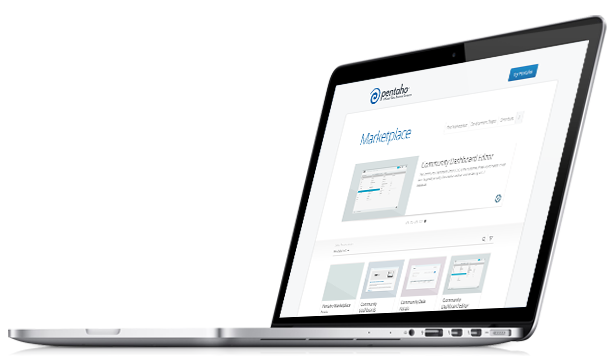
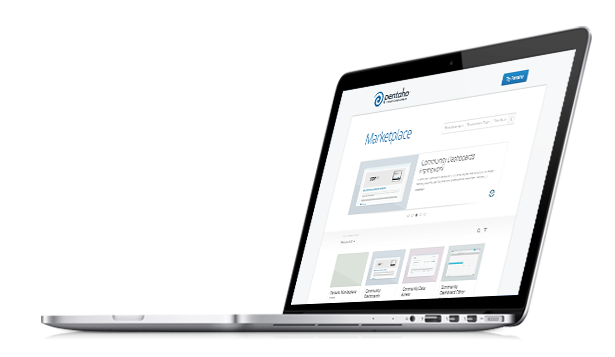
— changed global h4 f.size. — changed /app-builder top button txt to "marketplace" — fixed faulty header text alignment on /app-builder —[wip] change on hover style for marketplace/plugins cards

diff --git a/css/main.css b/css/main.css
@@ -43,6 +43,7 @@ body {
   line-height: none;
   color: #616161;
   min-width: 320px;
+  overflow-x: hidden;
 }
 
 .container small,
@@ -176,10 +177,9 @@ h3 {
 }
 
 h4{
-  font-size: 14px;
+  font-size: 16px;
   font-weight: 600;
   line-height: 27px;
-  /*margin-top: 35px;*/
 }
 
 p{
@@ -1209,6 +1209,10 @@ ol.carousel-indicators.content{
   .community-slide .right-side-slide{
     padding-bottom: 40px;
   }
+
+  .submit-item > a > div{
+    min-height: inherit !important;
+  }
 }
 
 
@@ -2045,7 +2049,7 @@ p.in-development-description {
   .submit-item > a > div {
     min-height: 235px;
     border: 1px solid #ebebeb;
-    margin-bottom: 30px;
+    margin-bottom: 24px;
     -webkit-transition: all .3s linear;
     transition: all .3s linear;
     padding-left: 10px;
@@ -2075,6 +2079,73 @@ p.in-development-description {
     margin-top: -10px;
     color: #616161;
   }
+
+  .marketPlace-card-icon{
+    width: 100px;
+    height: 100px;
+    margin-top: 35px;
+    margin-left: auto;
+    margin-right: auto;
+    position: relative;
+    background-repeat: no-repeat;
+    background-size: 400px 200px;
[1 lines of base64/hex data omitted]
+  }
+
+  .marketPlace-card-icon.dev{
+    background-position: 0 top;
+  }
+
+  .marketPlace-card-icon.submit{
+    background-position: -103px top;
+  }
+
+  .marketPlace-card-icon.join{
+    background-position: -203px top;
+  }
+
+  .marketPlace-card-icon.support{
+    background-position: -300px top;
+  }
+
+  .pluginPage .marketplaceLinks:hover{
+    background: #34913D;
+    color: #FFF;
+  }
+
+  .pluginPage .marketplaceLinks p{
+    color: #616161;
+    text-decoration: none;
+  }
+
+  .pluginPage .marketplaceLinks:hover p{
+    color: #FFF;
+  }
+
+  .pluginPage .marketplaceLinks h3,
+  .pluginPage .marketplaceLinks p
+  {
+    -webkit-transition: all 0.2s linear;
+    transition: all 0.2s linear;
+  }
+
+  .pluginPage .marketplaceLinks:hover h3{
+    color: #FFF;
+  }
+
+  .marketplaceLinks:hover .marketPlace-card-icon.dev{
+    background-position: 0 bottom;
+  }
+  .marketplaceLinks:hover .marketPlace-card-icon.submit{
+    background-position: -103px bottom;
+  }
+  .marketplaceLinks:hover .marketPlace-card-icon.join{
+    background-position: -203px bottom;
+  }
+  .marketplaceLinks:hover .marketPlace-card-icon.support{
+    background-position: -300px bottom;
+  }
+
 
   .pluginPage .grayRow {
     background: #d4d4d4;
@@ -3245,7 +3316,7 @@ a.userGroup-link {
   margin: 0;
   line-height: 16px;
   font-size: 12px;
-  padding: 3px 15px 5px;
+  padding: 5px 15px 5px;
 }
 
 .user-groups h3{

diff --git a/marketplace/plugins/index.html b/marketplace/plugins/index.html
@@ -97,44 +97,64 @@
                   </div>
                   <div class="row plugin-cards">
                     <div class="col-lg-3 col-sm-6 col-xs-12 submit-item text-center">
-                      <div class="marketplaceLinks">
-                        <div>
-                          <img src="../../img/marketplace-how-to.png" alt="">
-                          <h3>Develop plugins</h3>
-                          <p>All info to setup a new plugin.
-                            <br><a href="http://wiki.pentaho.com/display/ServerDoc2x/Developing+Plugins" target="_blank">View info</a></p>
+                      <a href="http://wiki.pentaho.com/display/ServerDoc2x/Developing+Plugins" target="_blank">
+                        <div class="marketplaceLinks">
+                          <div class="row">
+                            <div class="col-sm-12 col-xs-6">
+                              <div class="marketPlace-card-icon dev"></div>
+                            </div>
+                            <div class="col-sm-12 col-xs-6">  
+                              <h3>Develop plugins</h3>
+                              <p>All info to setup a new plugin.</p>
+                              <br>
+                              <p></p>
+                            </div>
+                          </div>
                         </div>
-                      </div>
+                      </a>
                     </div>
                     <div class="col-lg-3 col-sm-6 col-xs-12 submit-item text-center">
-                      <div class="marketplaceLinks">
-                        <div>
-                          <img src="../../img/marketplace-register.png" alt="">
-                          <h3>Submit your plugins</h3>
-                          <p>Simple and quick.
-                            <br><a href="https://github.com/pentaho/marketplace-metadata" target="_blank">View info</a></p>
+                      <a href="https://github.com/pentaho/marketplace-metadata" target="_blank">
+                        <div class="marketplaceLinks">
+                          <div class="row">
+                            <div class="col-sm-12 col-xs-6">
+                              <div class="marketPlace-card-icon submit"></div>
+                            </div>
+                            <div class="col-sm-12 col-xs-6">
+                              <h3>Submit your plugins</h3>
+                              <p>Simple and quick.</p>
+                              <br>
+                              <p></p>
+                            </div>
+                          </div>
                         </div>
-                      </div>
+                      </a>
                     </div>
                     <div class="col-lg-3 col-sm-6 col-xs-12 submit-item text-center">
-                      <div class="marketplaceLinks">
-                        <div>
-                          <img src="../../img/marketplace-join-project.png" alt="">
-                          <h3>Join a project</h3>
-                          <p>Join projects being developed.
-                            <br> <a href="">&nbsp;</a></p>
+                      <a >
+                        <div class="marketplaceLinks">
+                          <div>
+                            <div class="marketPlace-card-icon join"></div>
+                            <h3>Join a project</h3>
+                            <p>Join projects being developed.</p>
+                            <br>
+                            <p></p>
+                          </div>
                         </div>
-                      </div>
+                      </a>
                     </div>
                     <div class="col-lg-3 col-sm-6 col-xs-12 submit-item text-center">
-                      <div class="marketplaceLinks">
-                        <div>
-                          <img src="../../img/marketplace-help-support.png" alt="">
-                          <h3>Get help &amp; support</h3>
-                          <p>All support you need.
-                            <br><a href="http://forums.pentaho.com/forumdisplay.php?289-BI-Platform-Developer" target="_blank">Forums</a></p>
+                      <a href="http://forums.pentaho.com/forumdisplay.php?289-BI-Platform-Developer" target="_blank">
+                        <div class="marketplaceLinks">
+                          <div>
+                            <div class="marketPlace-card-icon support"></div>
+                            <h3>Get help &amp; support</h3>
+                            <p>All support you need.</p>
+                            <br>
+                            <p></p>
+                          </div>
                         </div>
-                      </div>
+                      </a>
                     </div>
                   </div>
                   <div class="row text-center newLanguage background-grey" style="margin-bottom: 30px;" id="startNewLang">

diff --git a/js/main.js b/js/main.js
@@ -3,7 +3,7 @@ $(document).ready(function(){
 		var current = $(this);
 		var link = $(this).attr('src');
 		var currentLink = $('#image-set-display-1').attr('src');
-		
+
 		if(link != currentLink) {
 			current.closest('.screen-previewer').find('.preview-block').removeClass('active');
 			current.parent().addClass('active');
@@ -14,7 +14,7 @@ $(document).ready(function(){
 		var current = $(this);
 		var link = $(this).attr('src');
 		var currentLink = $('#image-set-display-2').attr('src');
-		
+
 		if(link != currentLink) {
 			current.closest('.screen-previewer').find('.preview-block').removeClass('active');
 			current.parent().addClass('active');
@@ -54,13 +54,13 @@ $(document).ready(function(){
 	$("a.navbar-brand").attr("target", "_blank");
 });
 
-function removeOpen() {		
+function removeOpen() {
 	if((($('.dropdown-menu').is(":hover") == false) && ($('.dropdown').is(":hover") == false)) && ($(window).width() > 920)) {
 		$('.dropdown').removeClass('open');
 	}
 }
 
-function filterItems(input) {		
+function filterItems(input) {
 	$('.dev-item').hide();
 	searchingTitle = input.toUpperCase();
 

diff --git a/projects/app-builder/index.html b/projects/app-builder/index.html
@@ -31,7 +31,7 @@
   <div class="header-container"></div>
 
   <div class="backPage cbp-so-scroller" id="cbp-so-scroller">
-    <div class="container cbp-so-section" id="containerHeader">
+    <div class="site-container cbp-so-section" id="containerHeader">
       <!-- Example row of columns -->
       <div class="row">
         <div class="col-lg-7 cbp-so-side cbp-so-side-left">
@@ -53,7 +53,7 @@
               <p class="txt-greyArea">Visit the Pentaho Marketplace website and download App Builder.</p>
             </div>
             <div class="link-marketplacerow col-lg-3">
-              <a class="link-row" href="http://www.pentaho.com/marketplace/" target="_blank">Launch</a>
+              <a class="link-row" href="http://www.pentaho.com/marketplace/" target="_blank">Marketplace</a>
             </div>
           </div>
         </div>

diff --git a/projects/mondrian/index.html b/projects/mondrian/index.html
@@ -654,15 +654,7 @@
         $(this).addClass("clicked");
       });
 
-      $(".header-carousel").owlCarousel({
-        slideSpeed: 600,
-        paginationSpeed: 600,
-        autoPlay: 10000,
-        pagination: true,
-        singleItem: true,
-        mouseDrag: true,
-        touchDrag: true
-      });
+      
     });
   </script>
 
